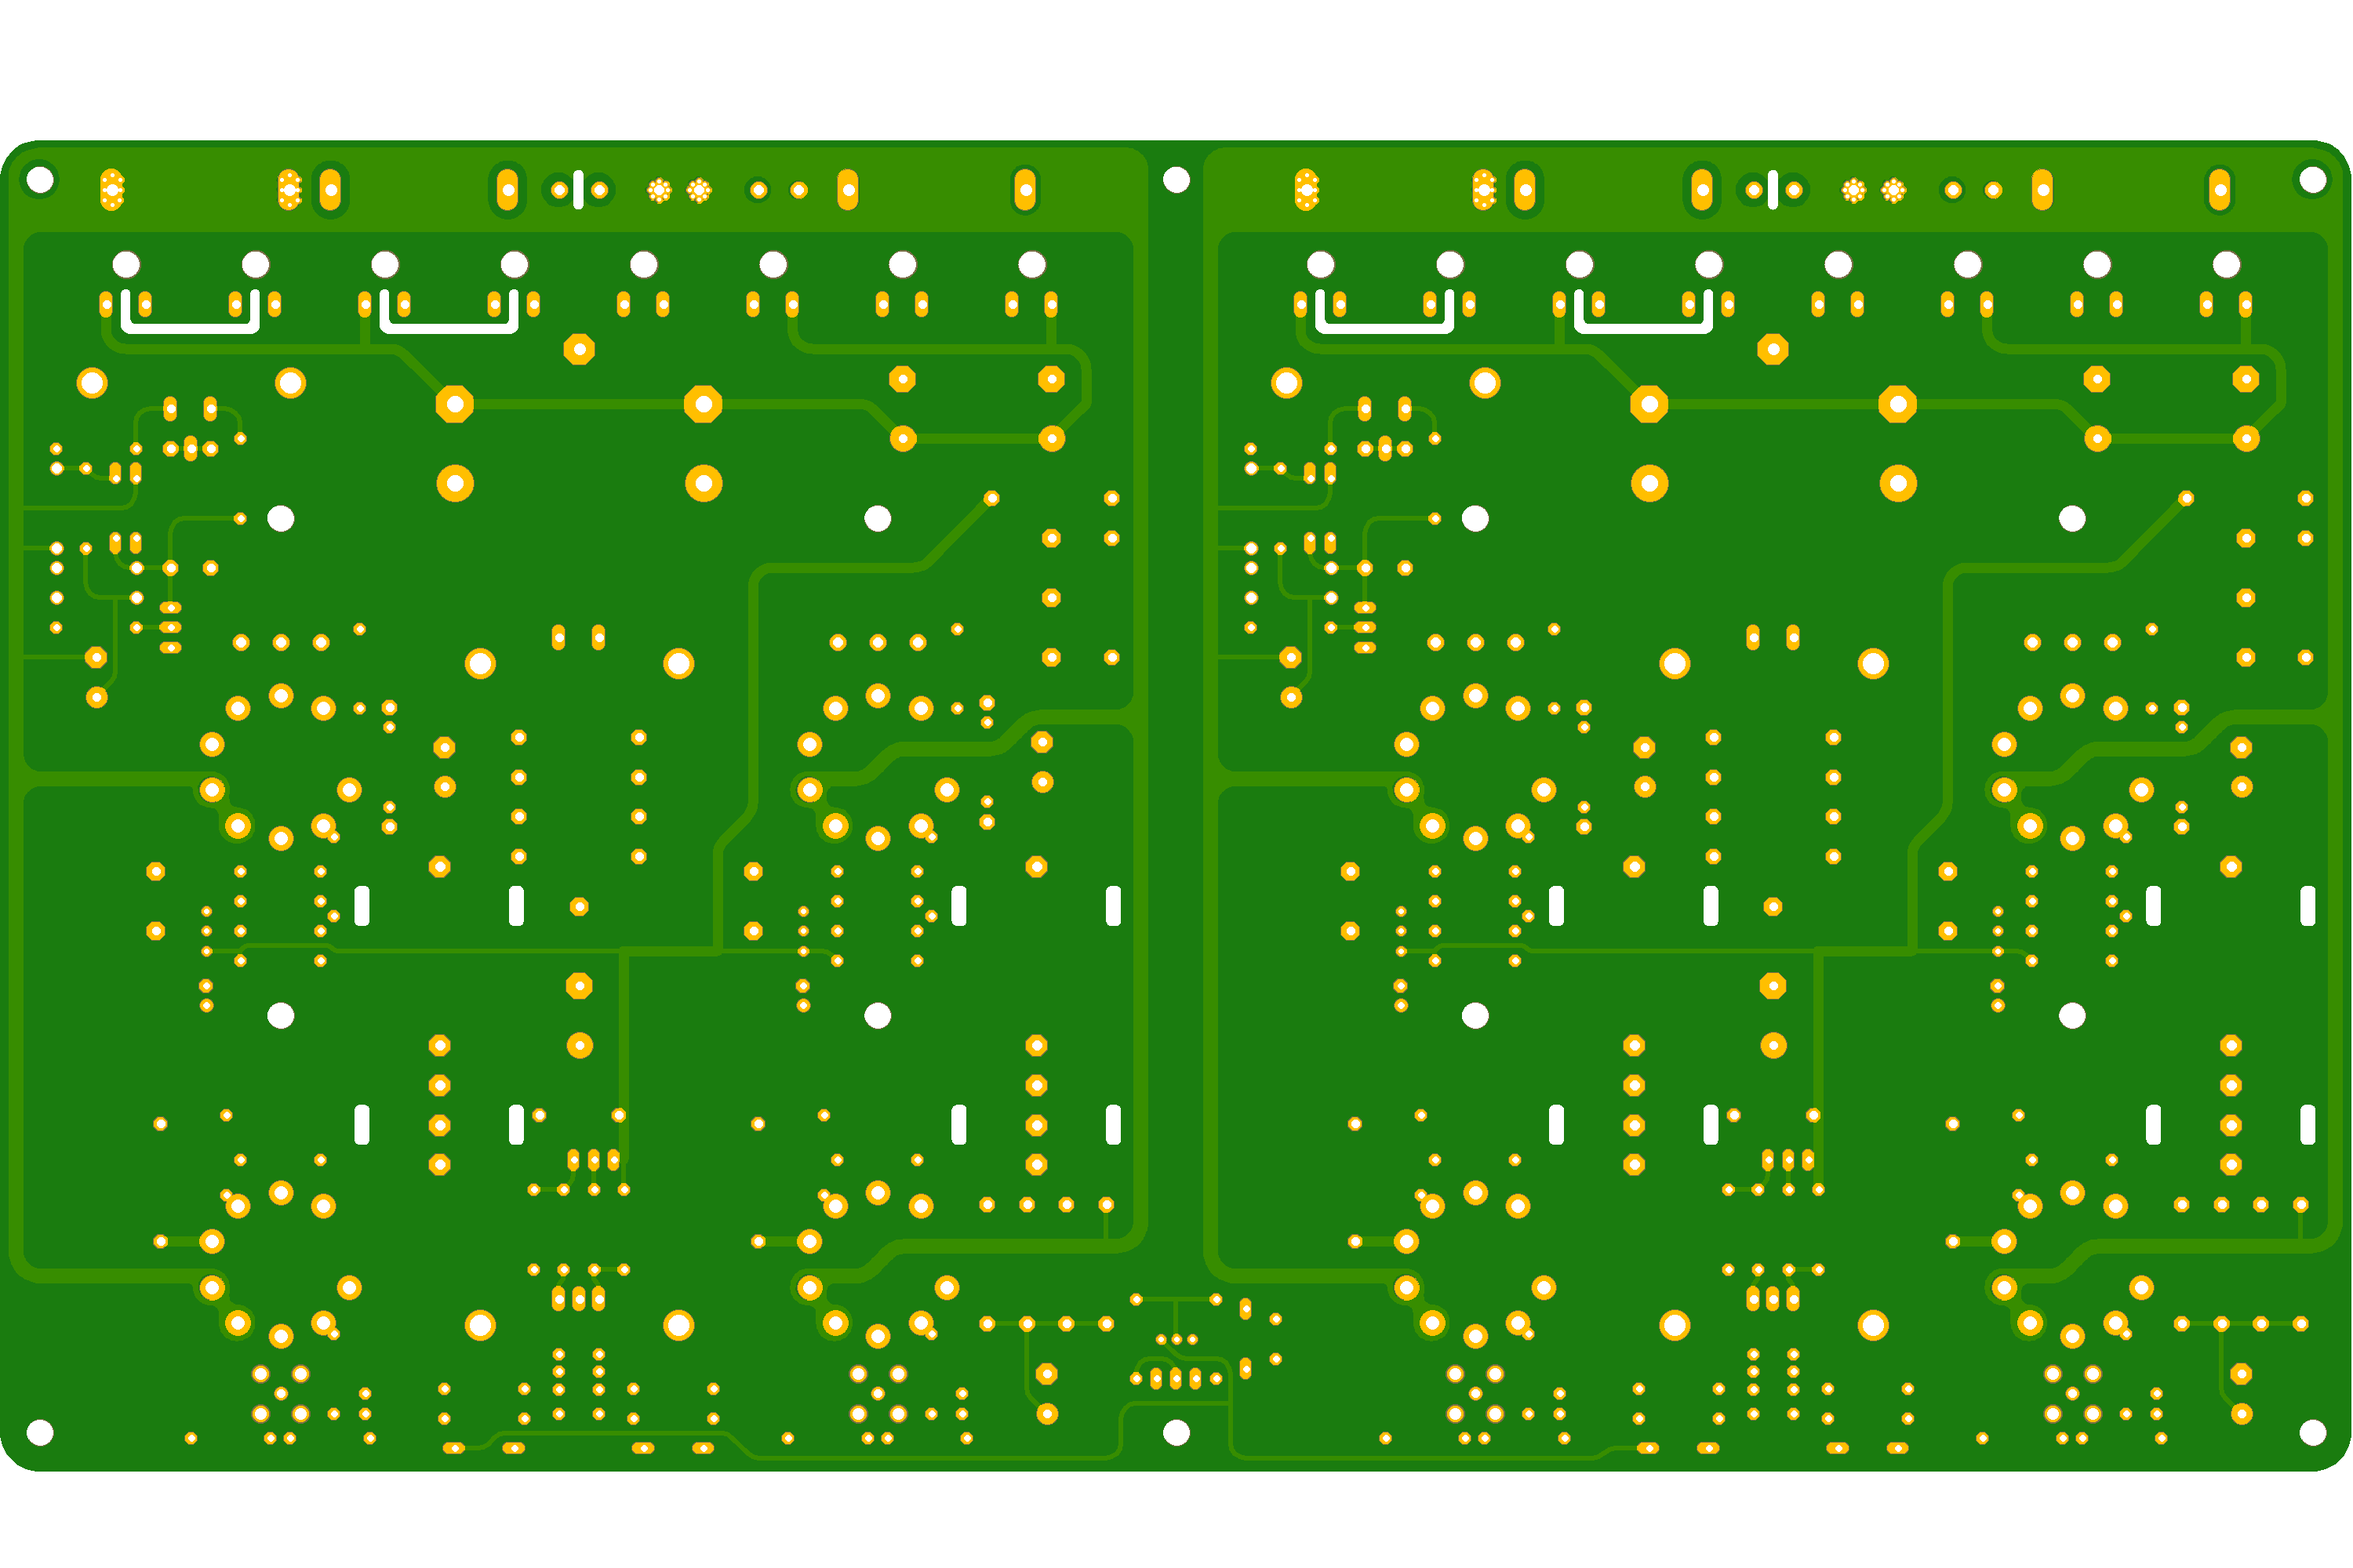
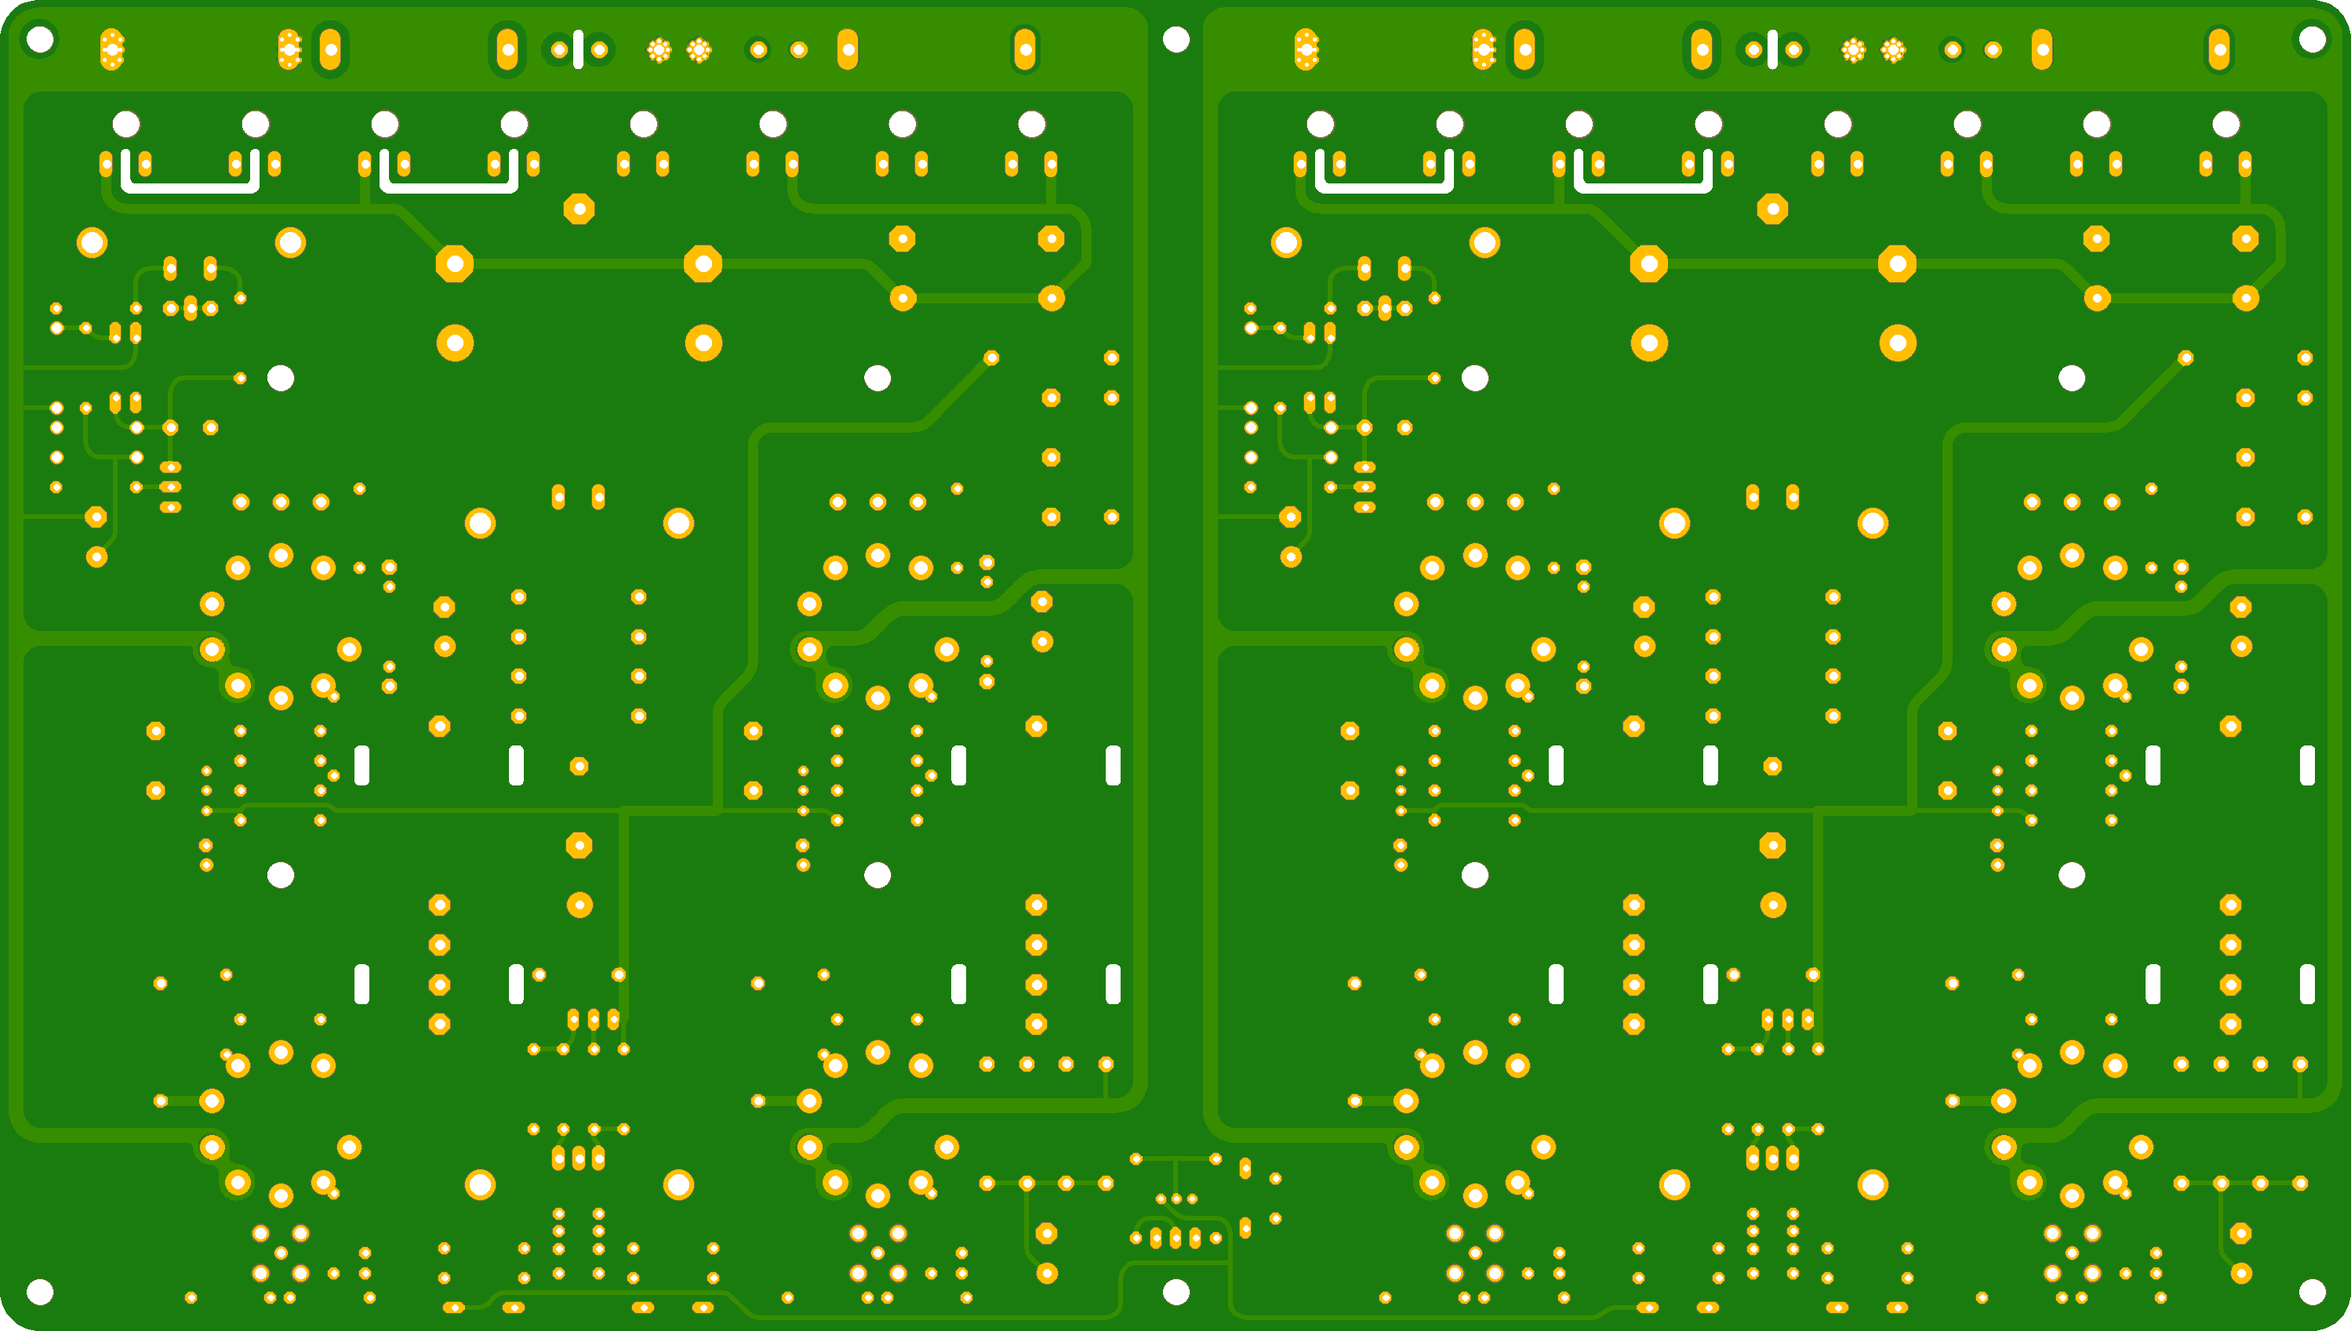
Updated PCB image

diff --git a/legacy-84-stereo/README.md b/legacy-84-stereo/README.md
@@ -38,10 +38,10 @@
 
 ## PCB
 ### PCB Front Side
-[![PCB Front](./docs/pcb-front.thumb.png)](./docs/pcb-front.png)</br>
+![PCB Front](./docs/pcb-front.thumb.png)</br>
 
 ### PCB Back Side
-[![PCB Back](./docs/pcb-back.thumb.png)](./docs/pcb-back.png)</br>
+![PCB Back](./docs/pcb-back.thumb.png)</br>
 
 ## Circuit Diagram Left Channel
 ### Power Supply
